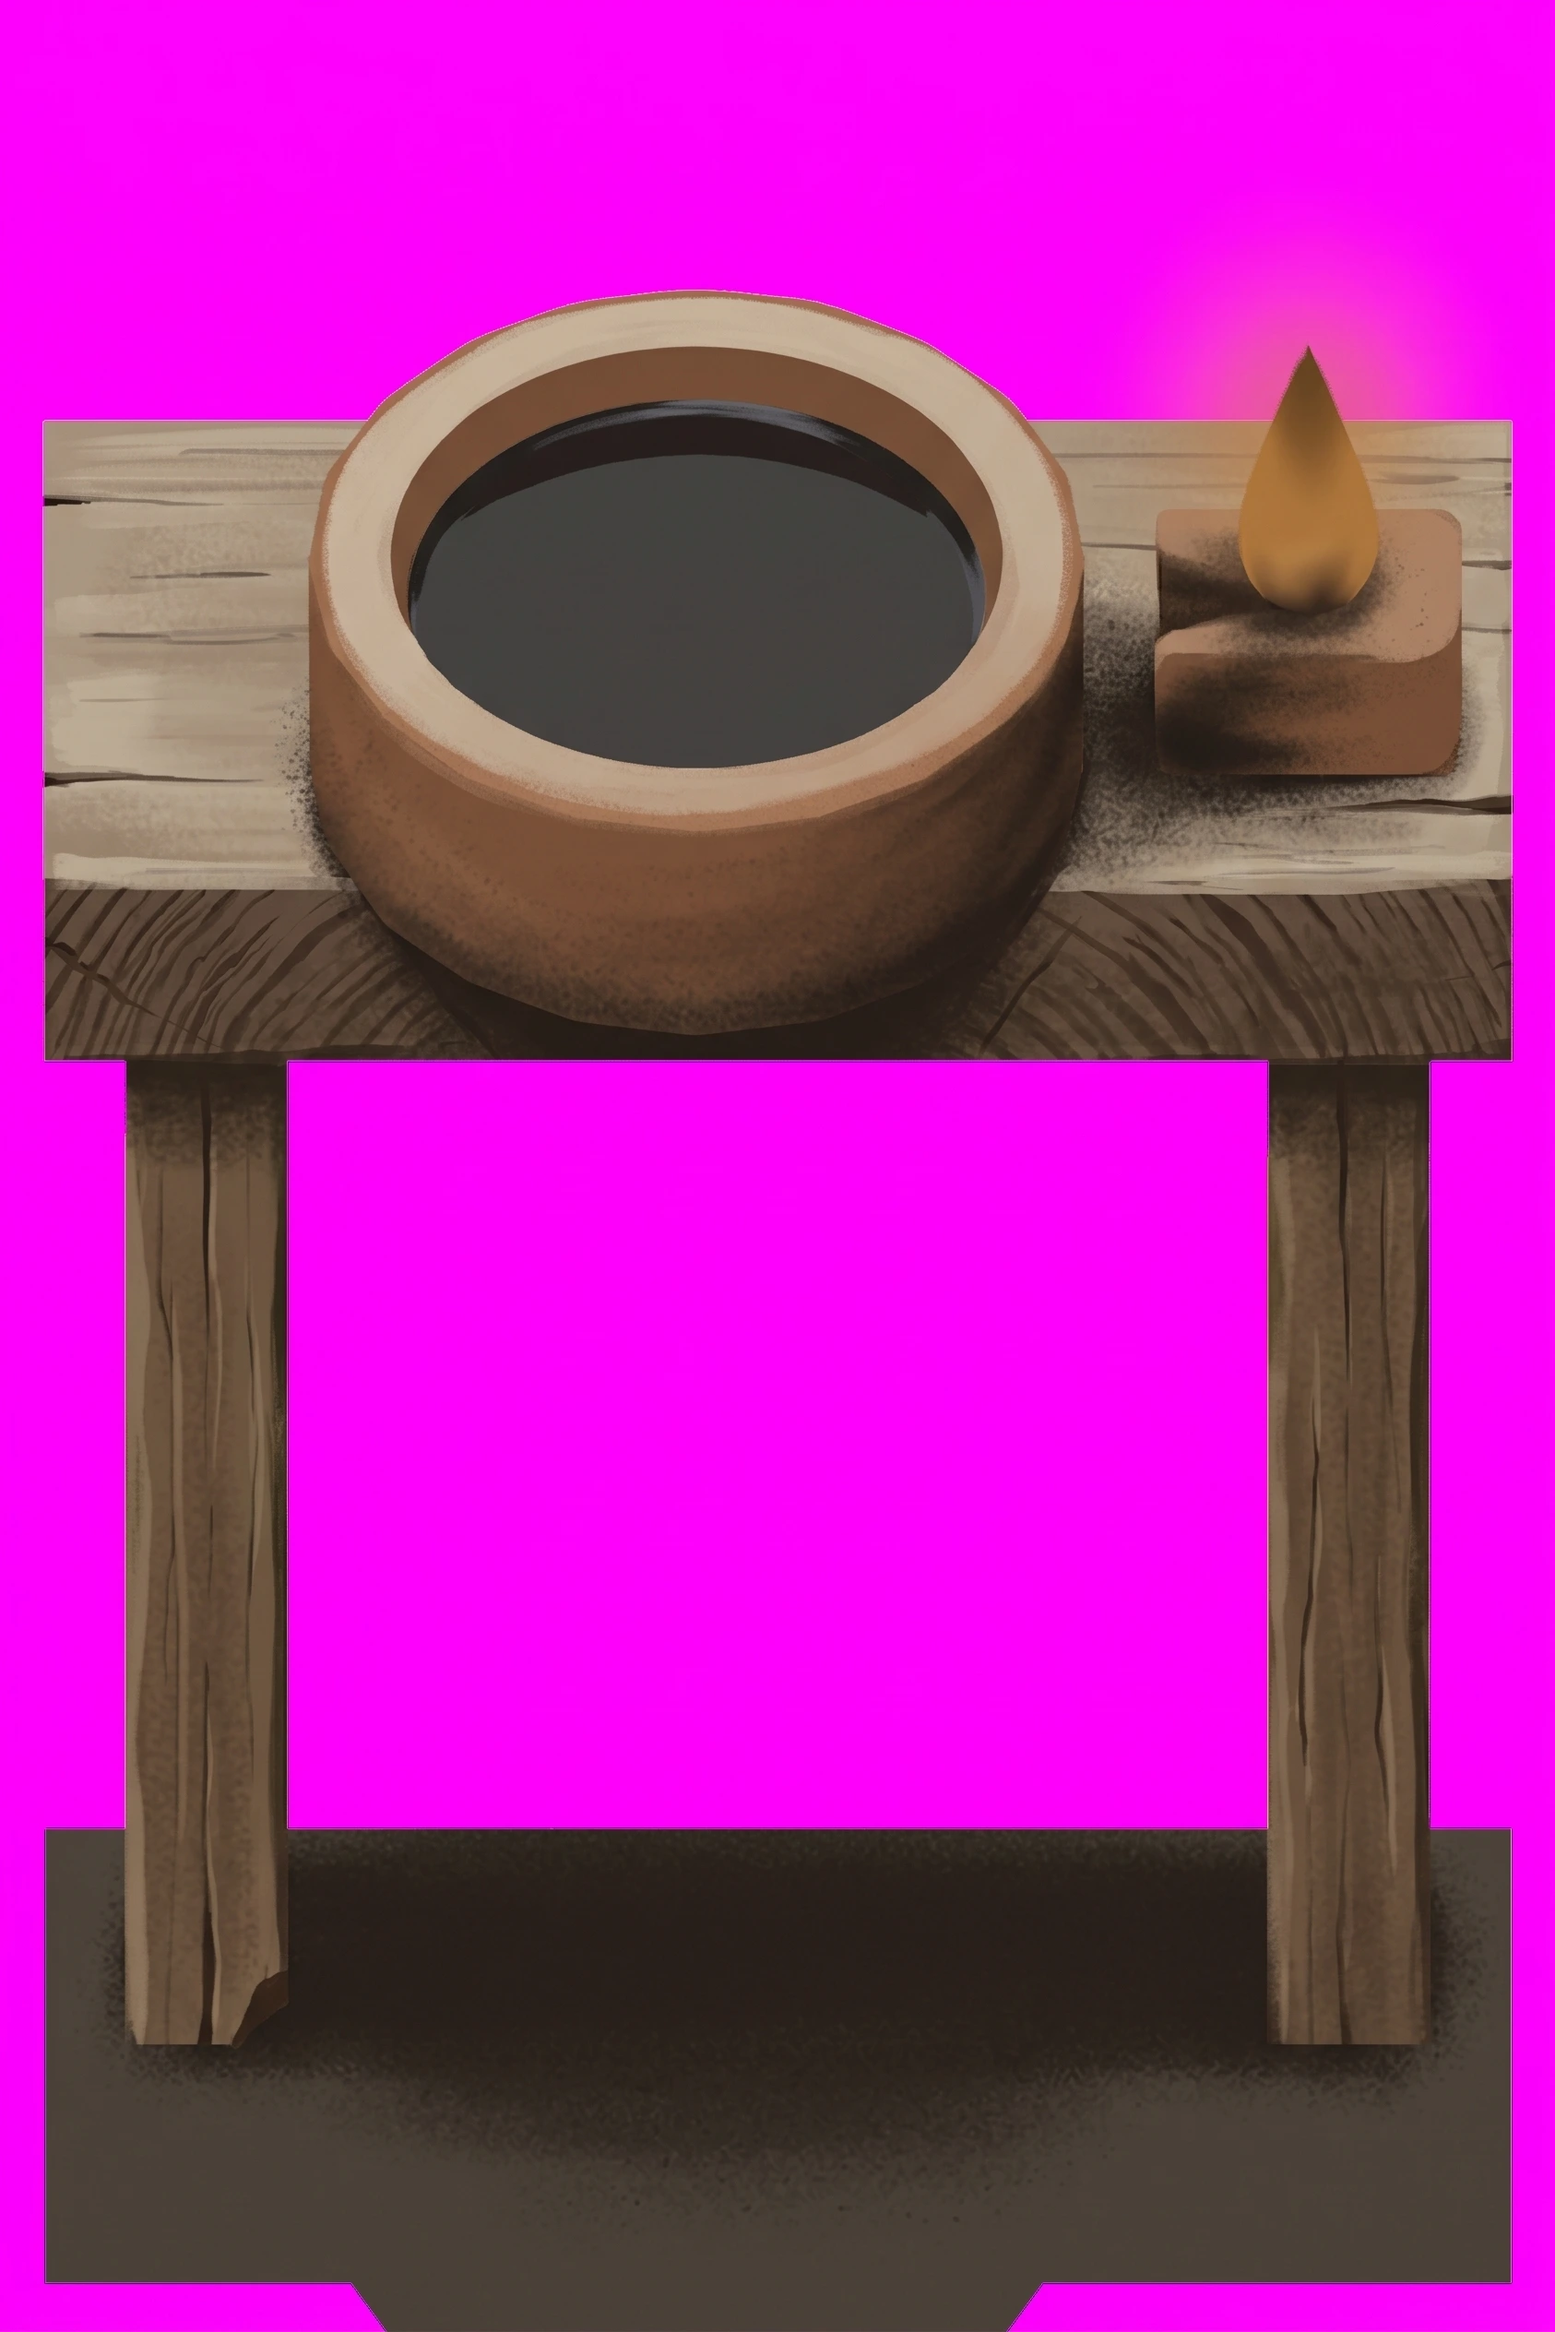
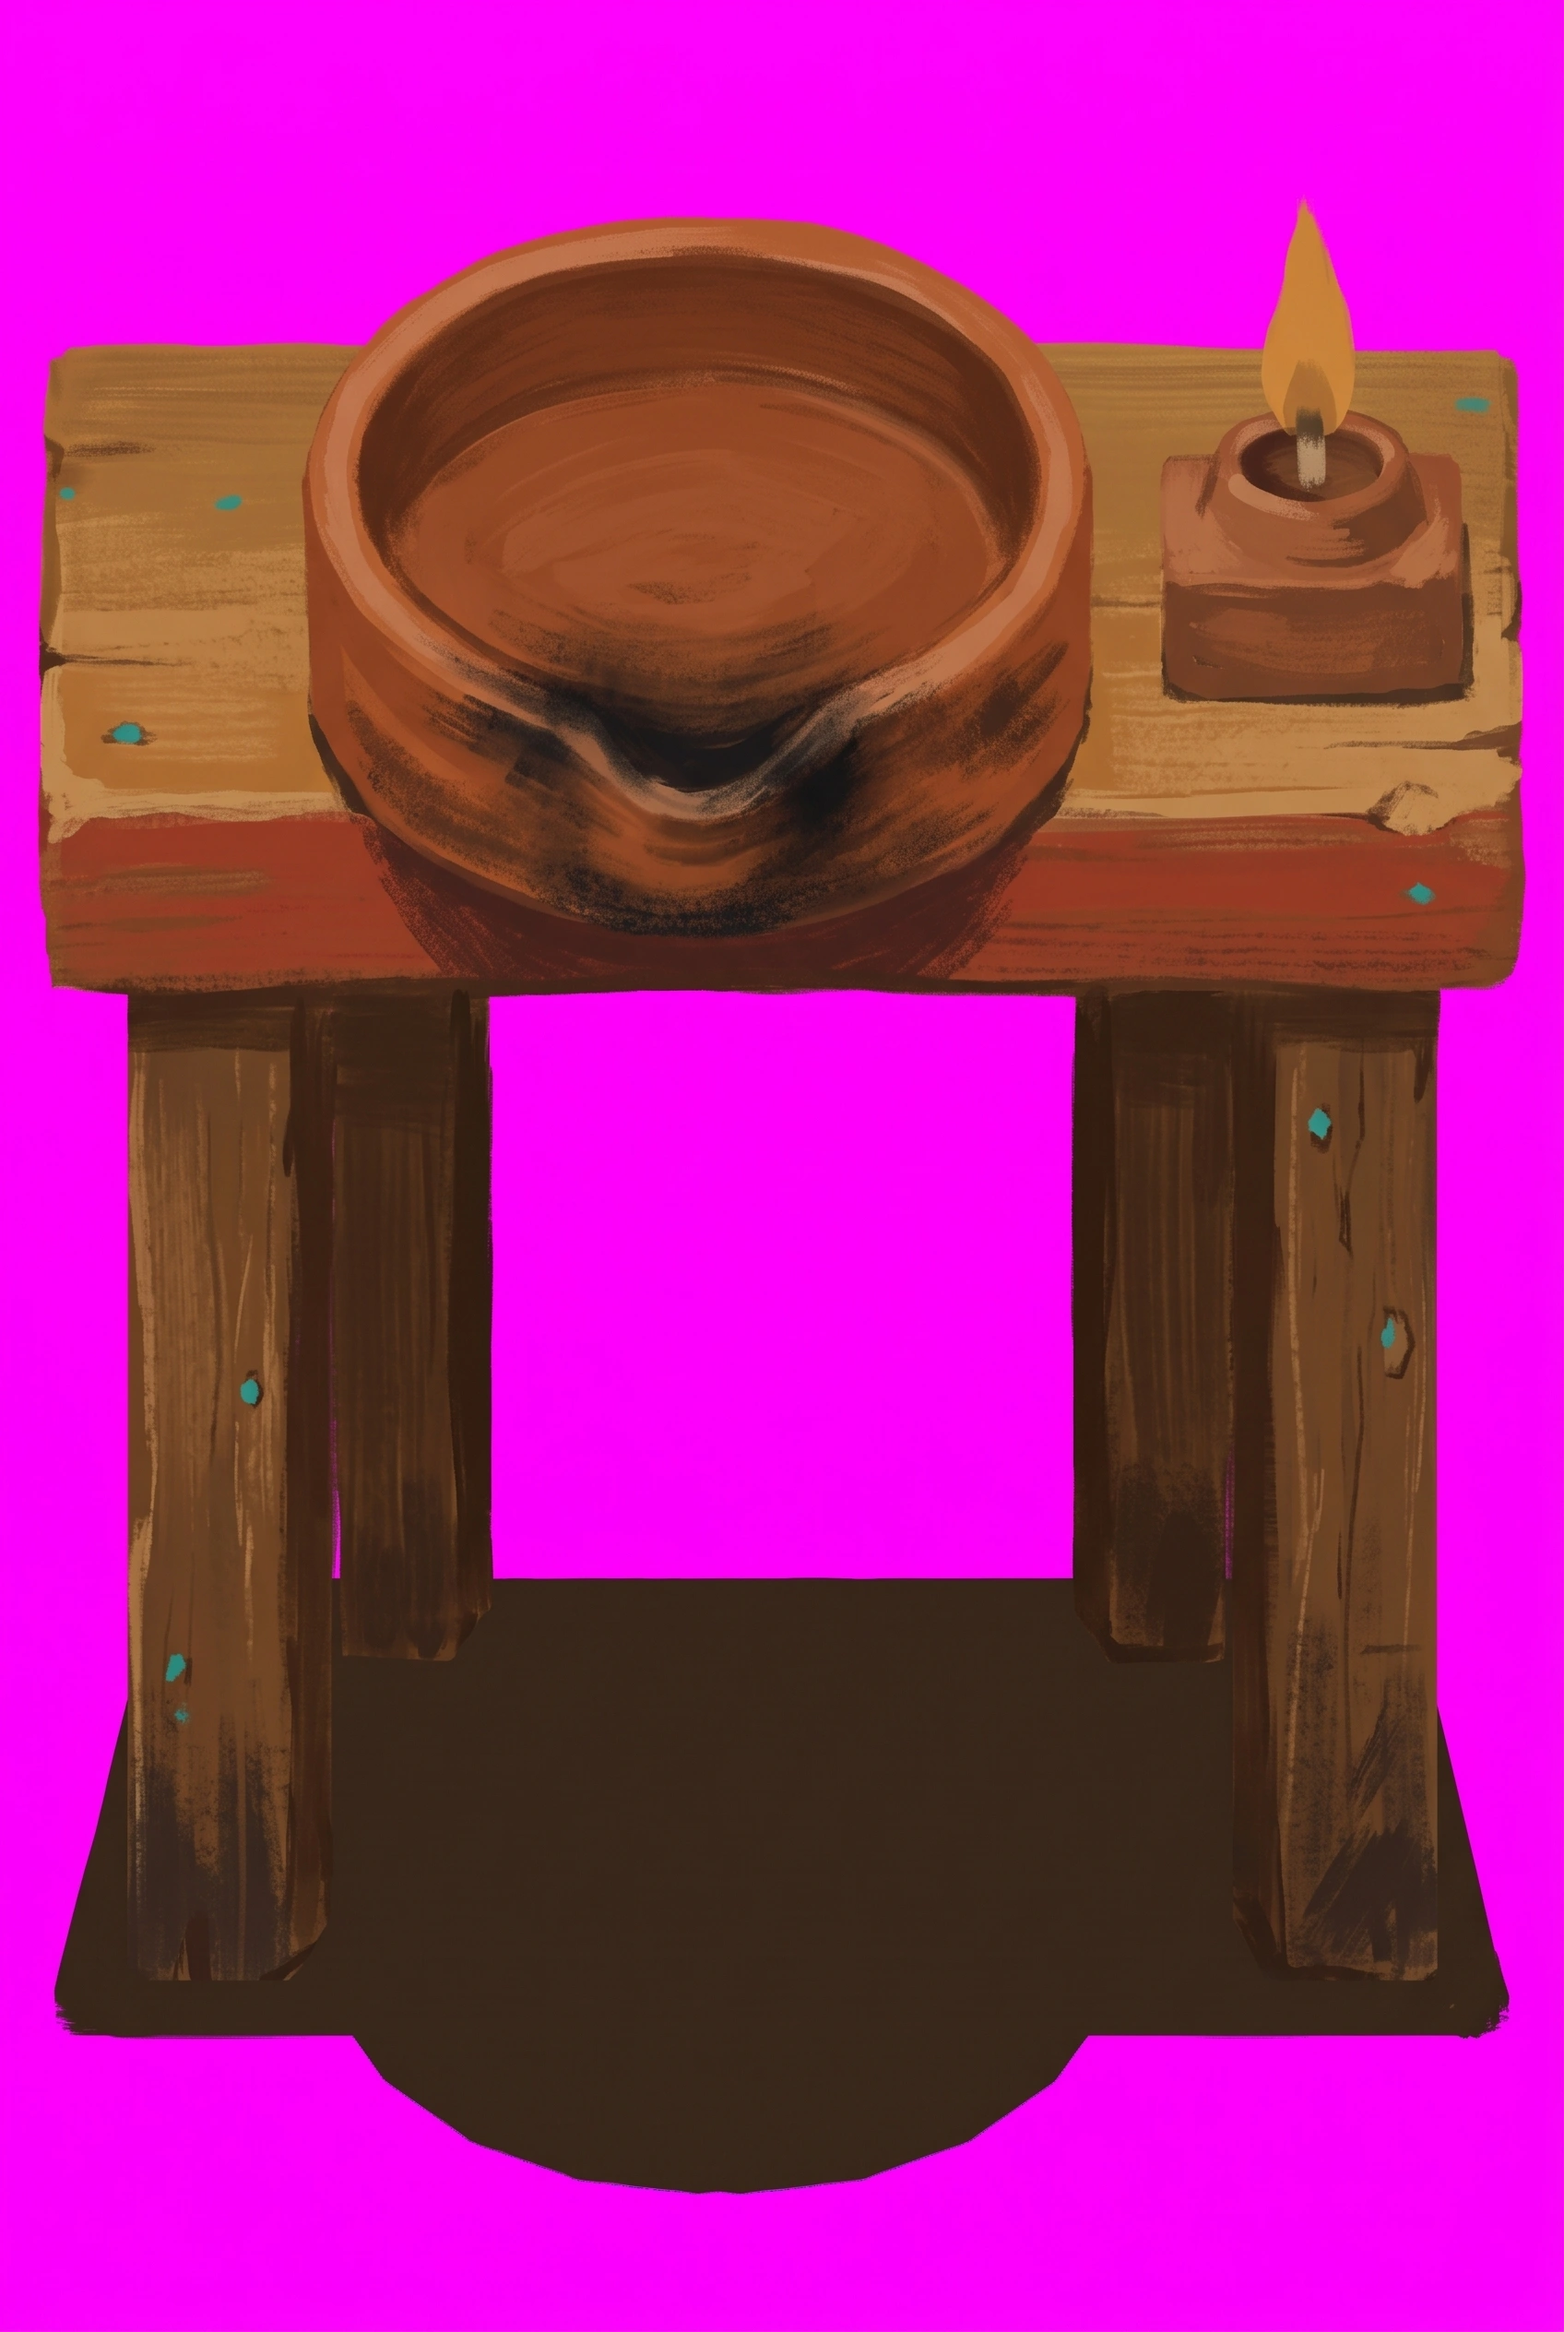
feat: starter's lamp repainted, a clay lamp on a dark stool
Claude-Session: https://claude.ai/code/session_01NQk9Q1WZoZfDzoRioyXby1

diff --git a/docs/instructions/repaint-queue.md b/docs/instructions/repaint-queue.md
@@ -193,45 +193,6 @@ the shabti is `--mesh=art/masters/meshes/shabti.glb`. `starter-plain.png` is the
 `art/masters/surfaces/starter-floor.webp` scaled to 1024, the crop every `<tier>-plain.png` is. The
 tally board has no scaffold: it attaches its own master.
 
-### `starter/lamp` — a clay lamp on a dark wooden stool
-
-**Attach:**
-
-1. `~/tile-previews/lamp-starter.png` — the scaffold
-2. `~/tile-previews/starter-plain.png` — the material reference
-
-```
-A wall-less product shot of a single object, painted in flat matte gouache, no background, on pure magenta #FF00FF. Portrait, two units wide by three tall, exactly as the reference. Do not re-compose it into a square. Paint over the reference image itself.
-
-The object: an OIL LAMP and the low wooden STOOL it stands on. The flat seat on four short legs is the
-stool. The straight-sided dish at its front edge, overhanging it, is the LAMP; the small nub at its side
-is the WICK and its FLAME.
-
-The stool is dark timber #5e3a1e, its seat's top face honey #9a6a3c, never pale split wood, with a red
-ochre #b8452c band along the seat's front edge. The lamp is fired terracotta #c0612f, sooted dark at the
-spout. The flame is a small ochre-orange tongue with no glow round it and no light thrown on the wood.
-
-IT STANDS ON A PALE FLOOR AND MUST READ DARK ON IT. The floor is pale limestone, #d8c8a8. The object as a
-whole is clearly DARKER and more colourful than that: nothing on it larger than a fingertip is lighter
-than terracotta #c0612f, and only the turquoise #2a9d8f may be, in small touches. Its base, its underside
-and every part nearest the floor are its darkest, deep umber #3a2a1c. Nothing on it is white, cream,
-bleached, pale straw or whitewash — a pale part vanishes into the floor.
-
-Keep every edge, every proportion and every silhouette exactly as in the reference image — do not move, resize, straighten, add, remove or restyle any part of it, and do not change the angle it stands at. Paint only material and wear.
-
-The shadow at its foot is part of the picture: paint it #3A2A1C, with no pink and no purple in it at all.
-
-No highlights, no gloss, no rim light, no ground plane, no reflections. Matte throughout, as if lit by one dull lamp. Merchant's storehouse: fired terracotta #c0612f and #7e3a1a, honey-brown timber #9a6a3c and #5e3a1e, red ochre paint #b8452c, turquoise faience #2a9d8f. Saturated and warm — colour that reads from across the room — and never as pale as the floor it stands on.
-```
-
-Then, once the return is in `~/Downloads`:
-
-```sh
-scaffold lamp
-yarn import-tile art/masters/props/starter/lamp.webp --tier=starter --name=lamp --slot=prop \
-  --filter=smooth --mask="$OBJ" --seat="$SHADOW" --scale=0.48
-```
-
 ### `starter/statue` — a turquoise faience shabti
 
 NOT AN ENVELOPE, so this statue keeps the edge sentence the others drop. The scaffold is the `shabti.glb`
